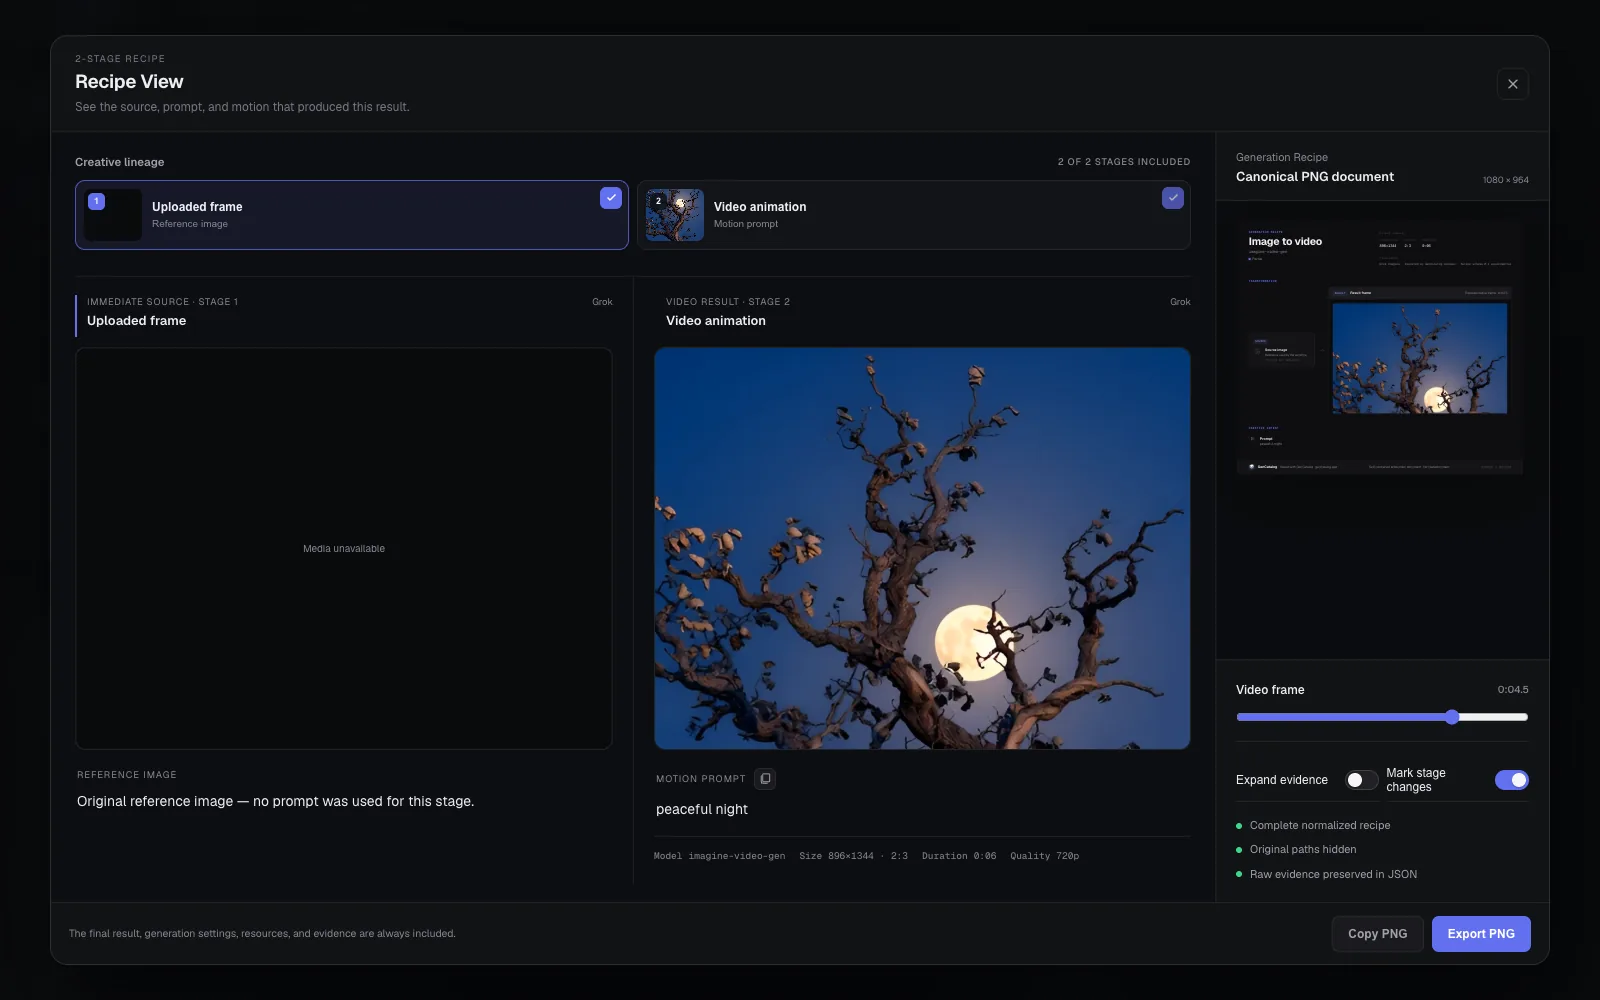
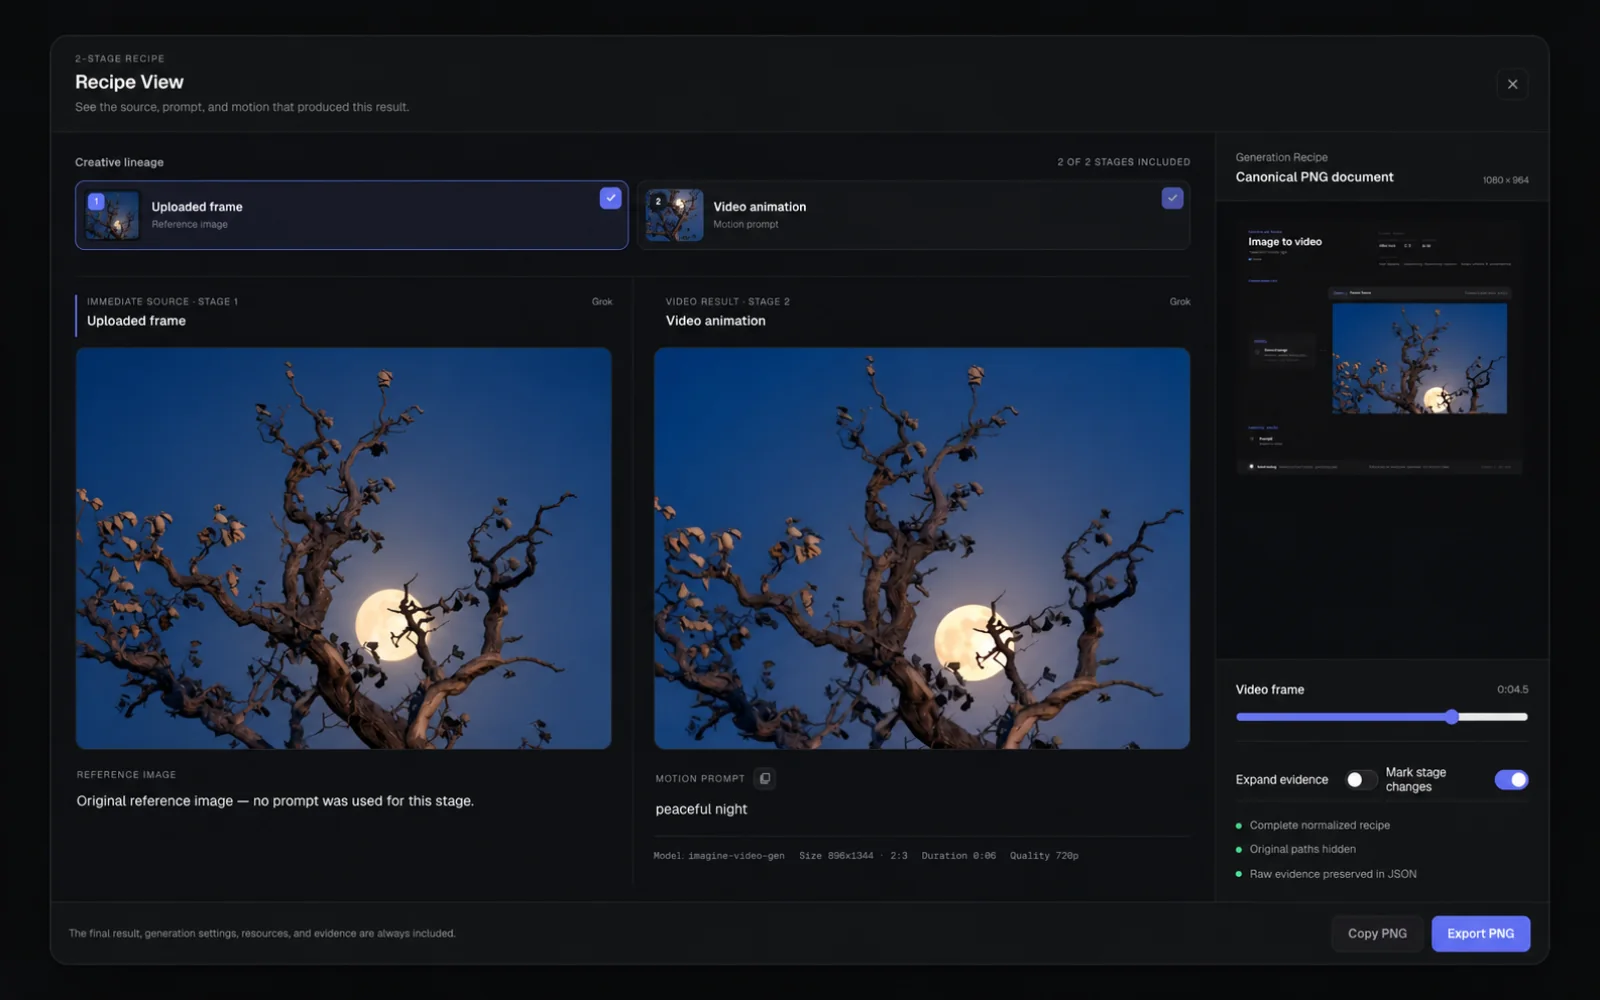
Refine: Grok page visual proof and upgrade copy

diff --git a/grok.html b/grok.html
@@ -290,7 +290,7 @@
   <section class="story">
     <div class="container story-grid reverse">
       <figure class="app-shot">
-        <img src="uploads_v2/GrokDetailLineage-20260803.webp" alt="Current GenCatalog Grok detail view showing an uploaded frame, resulting video, local source copy, related-item discovery, Open in Grok, and a 1080p upgrade control" width="1600" height="1000" loading="lazy" decoding="async">
+        <img src="uploads_v2/GrokDetailLineage-20260803.webp" alt="Current GenCatalog Grok detail view showing an uploaded frame, resulting video, local source copy, related-item discovery, Open in Grok, and a 1080p upgrade control for Grok Heavy subscribers" width="1600" height="1000" loading="lazy" decoding="async">
         <figcaption class="shot-caption"><span>Current Grok detail view: lineage, local reference, discovery, and upgrade</span><span class="mono">Captured Aug 3, 2026</span></figcaption>
       </figure>
       <div class="story-copy">
@@ -351,8 +351,8 @@
   <section class="story">
     <div class="container story-grid">
       <figure class="app-shot">
-        <img src="uploads_v2/GrokReferenceBrowser-20260803.webp" alt="Current GenCatalog reference browser showing local, online, and missing reference states plus service, account, date, and copy-state filters; media previews are blurred for privacy" width="1600" height="1000" loading="lazy" decoding="async">
-        <figcaption class="shot-caption"><span>Current reference browser; thumbnails blurred for privacy</span><span class="mono">Local · Online · Missing</span></figcaption>
+        <img src="uploads_v2/GrokReferenceBrowser-20260803.webp" alt="Current GenCatalog reference browser showing local, online, and missing reference states plus service, account, date, and copy-state filters with illustrative placeholder previews" width="1600" height="1000" loading="lazy" decoding="async">
+        <figcaption class="shot-caption"><span>Current reference browser with illustrative placeholders</span><span class="mono">Local · Online · Missing</span></figcaption>
       </figure>
       <div class="story-copy">
         <span class="eyebrow">Repair</span>
@@ -371,8 +371,8 @@
   <section class="story">
     <div class="container story-grid">
       <figure class="app-shot">
-        <img src="uploads_v2/GrokRecipeView-20260803.webp" alt="Current GenCatalog Recipe View for a Grok image-to-video generation, showing its source stage, motion prompt, result, canonical recipe document, and PNG export" width="1600" height="1000" loading="lazy" decoding="async">
-        <figcaption class="shot-caption"><span>Current Grok Recipe View</span><span class="mono">Source · Motion · PNG</span></figcaption>
+        <img src="uploads_v2/GrokRecipeView-20260803.webp" alt="Current GenCatalog Recipe View for a Grok image-to-video generation, showing an illustrative source preview, motion prompt, result, canonical recipe document, and PNG export" width="1600" height="1000" loading="lazy" decoding="async">
+        <figcaption class="shot-caption"><span>Current Grok Recipe View with illustrative source preview</span><span class="mono">Source · Motion · PNG</span></figcaption>
       </figure>
       <div class="story-copy">
         <span class="eyebrow">Reuse</span>
@@ -384,7 +384,7 @@
           <li><span><strong>Recipe Compare:</strong> place two generations and prompts side by side to see what changed.</span></li>
           <li><span><strong>Original source links:</strong> open a saved item back in Grok when the link is available.</span></li>
         </ul>
-        <p class="editorial-caption">Shown with a real Grok image-to-video record. More complex Grok lineages add the additional stages GenCatalog can recover from the source.</p>
+        <p class="editorial-caption">Shown in the current Recipe View with an illustrative source preview. More complex Grok lineages add the additional stages GenCatalog can recover from the source.</p>
       </div>
     </div>
   </section>
@@ -392,13 +392,13 @@
   <section class="story">
     <div class="container story-grid reverse">
       <figure class="app-shot vertical-proof">
-        <img src="uploads_v2/GrokVideoUpgrade-20260803.webp" alt="Current GenCatalog Grok detail controls showing the original prompt and lineage, Open in Grok, a 1080p upgrade selector, 720p saved status, original creation date, file details, and local reference state" width="610" height="1000" loading="lazy" decoding="async">
-        <figcaption class="shot-caption"><span>Upgrade directly from the current detail view</span><span class="mono">720p saved → 1080p</span></figcaption>
+        <img src="uploads_v2/GrokVideoUpgrade-20260803.webp" alt="Current GenCatalog Grok detail controls showing the original prompt and lineage, Open in Grok, a 1080p upgrade selector for Grok Heavy subscribers, 720p saved status, original creation date, file details, and local reference state" width="610" height="1000" loading="lazy" decoding="async">
+        <figcaption class="shot-caption"><span>Upgrade directly from the current detail view</span><span class="mono">720p saved → 1080p with Grok Heavy</span></figcaption>
       </figure>
       <div class="story-copy">
         <span class="eyebrow">Upgrade</span>
         <h2>Upgrade Grok videos without leaving your library.</h2>
-        <p>Find videos that Grok can upgrade, choose 720p or 1080p, and manage the work as a queue from inside GenCatalog. Quality badges make the final state visible without opening every file.</p>
+        <p>Find videos that Grok can upgrade and manage the work as a queue from inside GenCatalog. GenCatalog supports 720p upgrades; 1080p upgrades require a Grok Heavy subscription. Quality badges make the final state visible without opening every file.</p>
         <ul class="feature-list">
           <li><span><strong>Upgradeable video filter:</strong> isolate the work that is eligible.</span></li>
           <li><span><strong>Individual or bulk queue:</strong> upgrade one video or work through many.</span></li>
@@ -406,7 +406,7 @@
           <li><span><strong>Account-aware guidance:</strong> get pointed to the correct Grok account when an upgrade needs it.</span></li>
           <li><span><strong>Original timeline preserved:</strong> the upgraded file stays anchored to when the work was first created.</span></li>
         </ul>
-        <p class="editorial-caption">Upgrade availability and output quality depend on what Grok supports for the source video and signed-in account.</p>
+        <p class="editorial-caption">Upgrade availability depends on what Grok supports for the source video and signed-in account. 1080p requires an active Grok Heavy subscription.</p>
       </div>
     </div>
   </section>
@@ -434,7 +434,7 @@
             <tr><td>Folder, tag, or project <span class="source-tag">GROK</span></td><td>Retains available Grok-side organizational context.</td><td>When present on the captured Grok surface.</td></tr>
             <tr><td>Agent Mode context <span class="source-tag">GROK</span></td><td>Preserves available session, step, and source details with Agent Mode media.</td><td>When exposed by Grok Agent Mode.</td></tr>
             <tr><td>Original Grok link <span class="source-tag">GROK</span></td><td>Keeps a route back to the source record.</td><td>When a stable source link is available.</td></tr>
-            <tr><td>Upgrade status <span class="source-tag">GROK</span></td><td>Tracks eligibility, queued work, target quality, and completed quality badges.</td><td>Where Grok supports video upgrades.</td></tr>
+            <tr><td>Upgrade status <span class="source-tag">GROK</span></td><td>Tracks eligibility, queued work, target quality, and completed quality badges.</td><td>Where Grok supports video upgrades; 1080p requires Grok Heavy.</td></tr>
             <tr><td>Tags + collections <span class="source-tag local-tag">LOCAL</span></td><td>Lets you build your own taxonomy across accounts and sources.</td><td>Created and managed in GenCatalog.</td></tr>
             <tr><td>Notes + ratings <span class="source-tag local-tag">LOCAL</span></td><td>Adds the judgment and memory that a raw generation cannot carry alone.</td><td>Created and managed in GenCatalog.</td></tr>
             <tr><td>Favorites + hidden state <span class="source-tag local-tag">LOCAL</span></td><td>Keeps important work close and sensitive or distracting work out of the main view.</td><td>Created and managed in GenCatalog.</td></tr>
@@ -454,7 +454,7 @@
         <div class="index-group"><h3>Search and rediscover</h3><ul><li>Universal search</li><li>Prompt search</li><li>Account filters</li><li>Source filters</li><li>Media filters</li><li>Date filters</li><li>Rating filters</li><li>Reference filters</li><li>Upgradeable filter</li><li>Saved searches</li><li>Top prompts</li><li>First-added sort</li><li>GC-modified sort</li><li>Created-date sort</li><li>Rediscover</li><li>Actionable Rediscover details</li><li>Slideshow</li><li>Slideshow preparation progress</li><li>Favorite, rate, hide, Vault, or Trash in slideshow</li><li>Library statistics</li></ul></div>
         <div class="index-group"><h3>Understand and reuse</h3><ul><li>Reference family trees</li><li>Source relationship repair</li><li>Local/online/missing source states</li><li>Reference-use counts</li><li>Generation Recipes</li><li>Recipe Cards</li><li>Removable Recipe Cards</li><li>Recipe Compare</li><li>Phrase-level prompt differences</li><li>Matching and one-sided fields</li><li>Cross-source and image/video compare</li><li>PNG recipe export</li><li>JSON recipe export</li><li>Separate motion prompts</li><li>Copy prompt</li><li>More from this prompt</li><li>Find Similar</li><li>More from this reference</li><li>Open original on Grok</li><li>Detail and fullscreen views</li><li>Batch export</li><li>Reveal in Finder or Explorer</li><li>CSV export</li></ul></div>
         <div class="index-group"><h3>Multiple Grok accounts</h3><ul><li>One combined catalog</li><li>Automatic source account</li><li>Per-account counts</li><li>Account + filter combinations</li><li>Targeted filter clearing</li><li>Account-scoped references</li><li>Account-scoped repair</li><li>Correct-profile upgrade guidance</li><li>Signed-in tab detection</li><li>Sequential account recovery</li></ul></div>
-        <div class="index-group"><h3>Upgrade and protect</h3><ul><li>720p video upgrades</li><li>1080p video upgrades</li><li>Individual upgrades</li><li>Bulk upgrade queue</li><li>Quality badges</li><li>Original timeline preservation</li><li>Mac and Windows</li><li>External drive catalogs</li><li>App Lock</li><li>Privacy Mode</li><li>Encrypted Private Vault</li><li>No GenCatalog account required</li></ul></div>
+        <div class="index-group"><h3>Upgrade and protect</h3><ul><li>720p video upgrades</li><li>1080p upgrades with Grok Heavy</li><li>Individual upgrades</li><li>Bulk upgrade queue</li><li>Quality badges</li><li>Original timeline preservation</li><li>Mac and Windows</li><li>External drive catalogs</li><li>App Lock</li><li>Privacy Mode</li><li>Encrypted Private Vault</li><li>No GenCatalog account required</li></ul></div>
       </div>
     </div>
   </section>

diff --git a/DEVLOG.md b/DEVLOG.md
@@ -20,17 +20,22 @@
 - Kept recent moderation changes to one evergreen reminder that platform
   boundaries change. The page does not claim that canceling a subscription
   deletes work or that GenCatalog can recover media Grok no longer exposes.
+- Clarified throughout the page that 1080p Grok video upgrades require a Grok
+  Heavy subscription; 720p remains the standard Grok upgrade path.
 
 ### Current product evidence
 
 - Captured the current shipping app against a public-safe Grok grid on August
   3, 2026. The new visuals show a 34,799-item catalog, six-account refinement,
   current detail and creative-lineage controls, local reference state, the
-  in-app 1080p upgrade selector, current Recipe View, and the account-scoped
-  reference browser.
-- Blurred only the media thumbnails in the reference-browser capture to keep
-  private source imagery out of a public marketing asset. Filters, counts,
-  copy states, and repair guidance remain readable and unaltered.
+  in-app 1080p upgrade selector for Grok Heavy subscribers, current Recipe
+  View, and the account-scoped reference browser.
+- Replaced private reference previews with clearly illustrative, public-safe
+  placeholder imagery while preserving the current reference-browser UI,
+  filters, counts, copy states, and repair guidance.
+- Added an illustrative moonlit-tree source preview to the current Recipe View
+  capture so both source and result stages are visible. The page labels the
+  substituted source and reference imagery as illustrative.
 - Retained the existing Grok-side Save / Save + Favorite image because it
   documents the browser capture interaction; all desktop-app proof was
   replaced with current captures.
